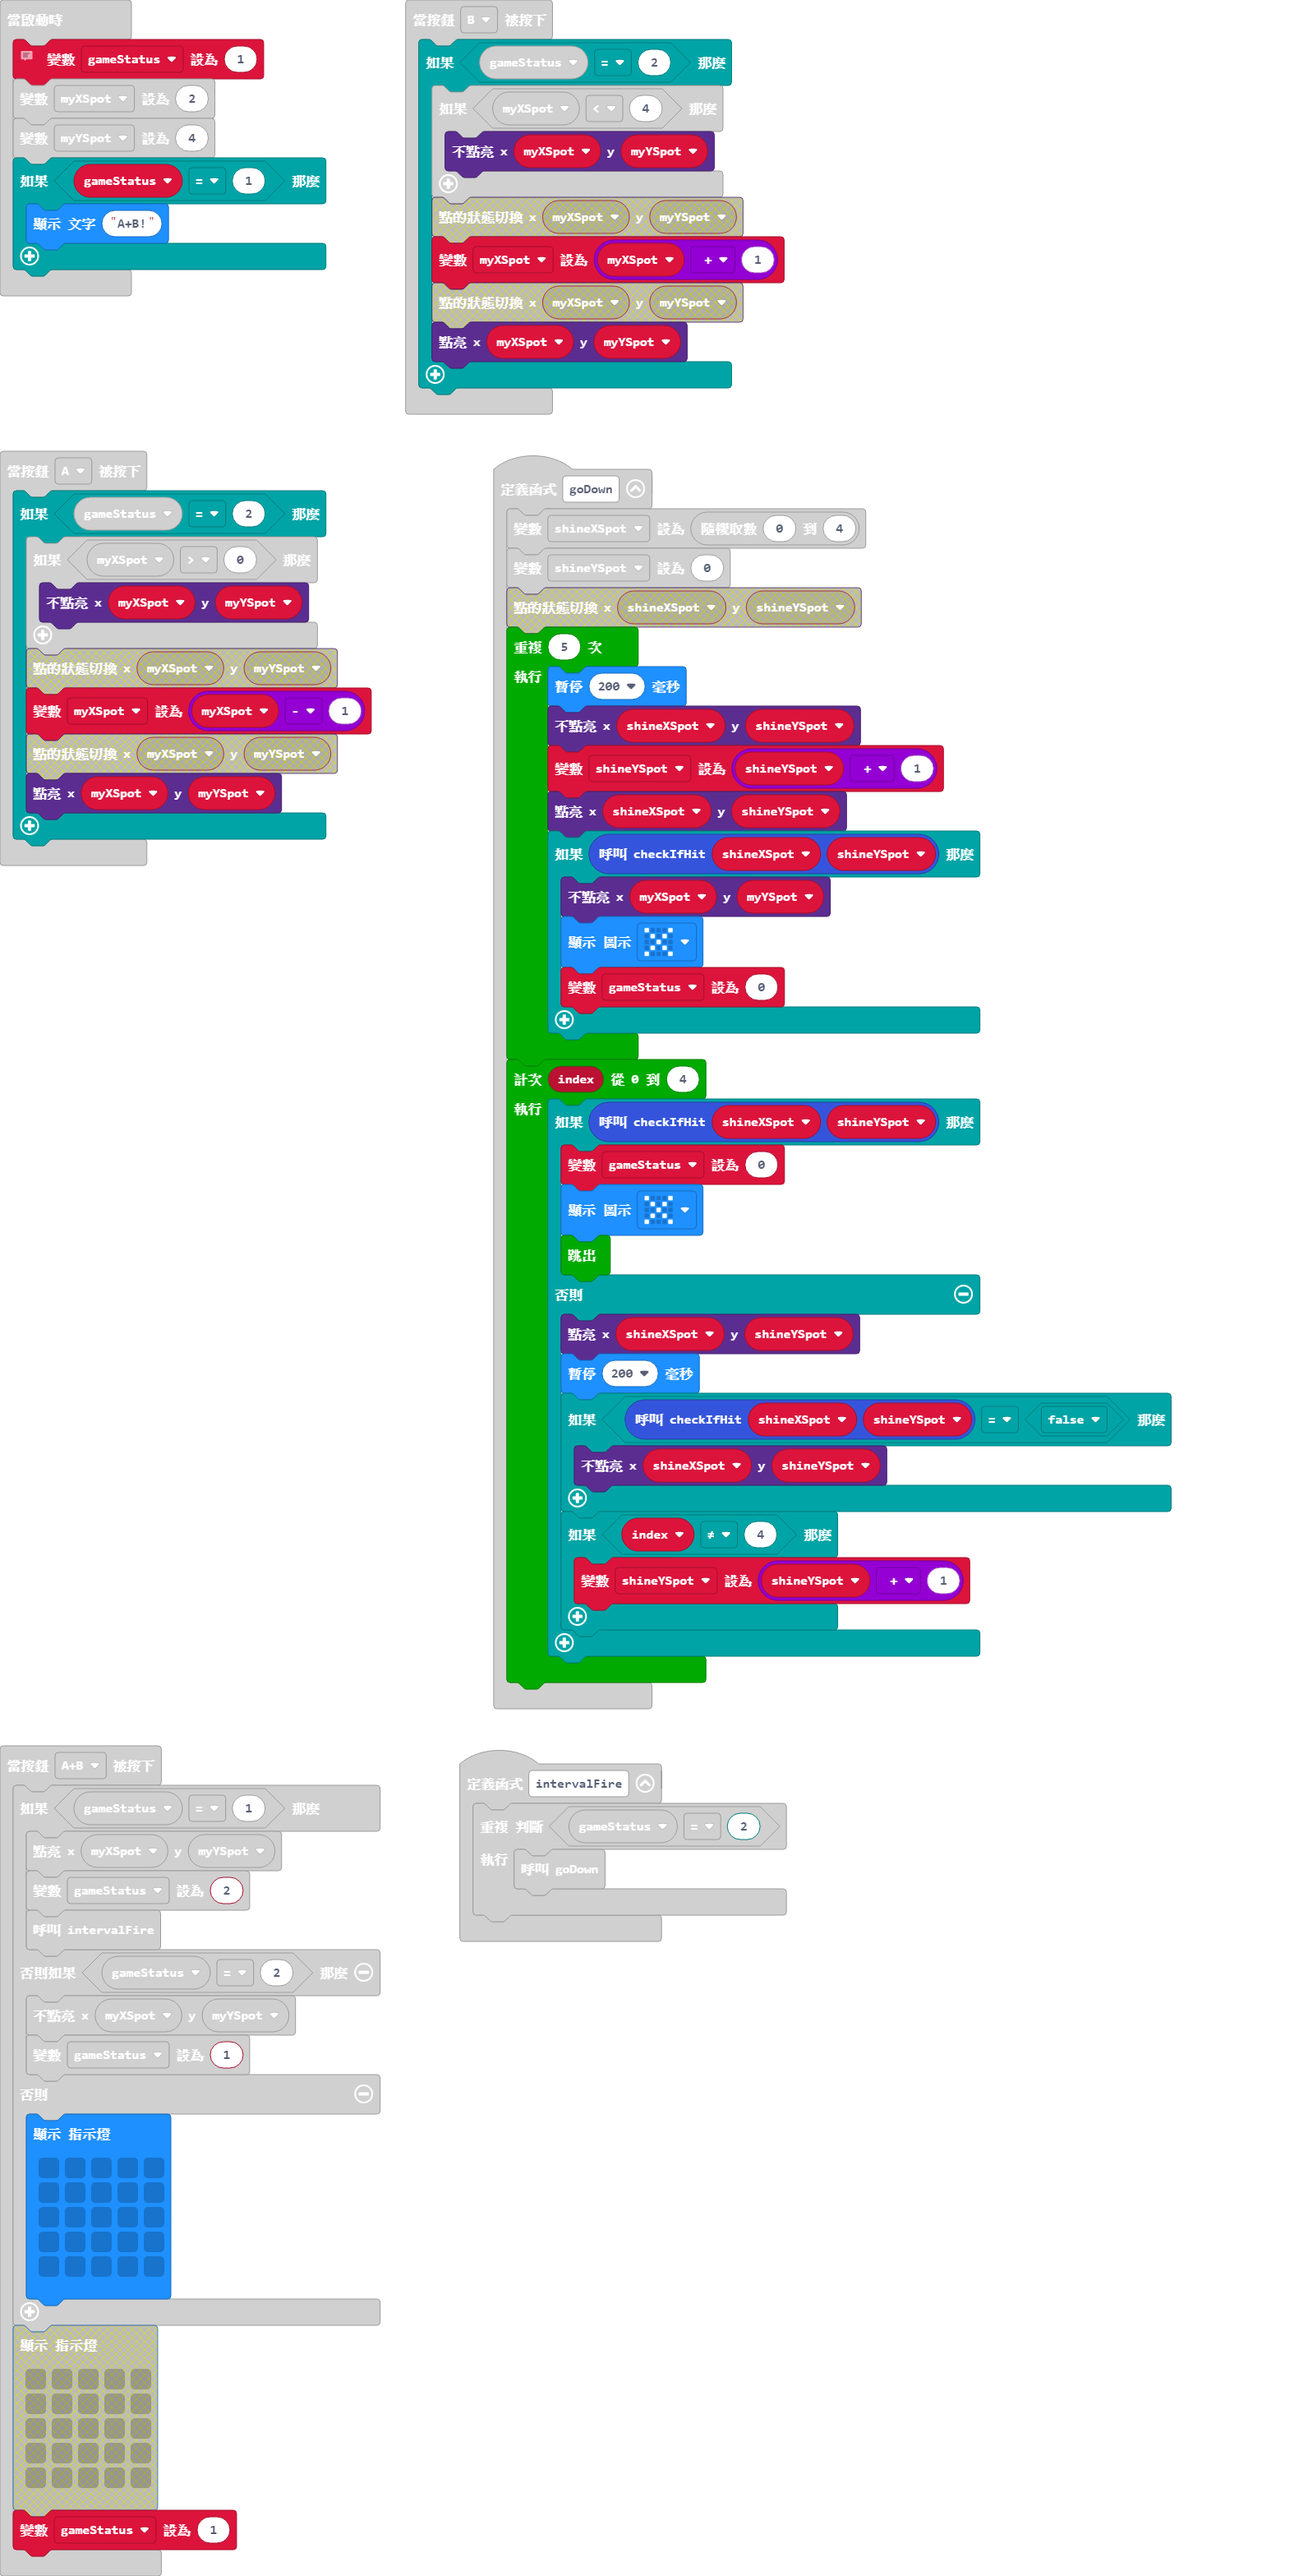
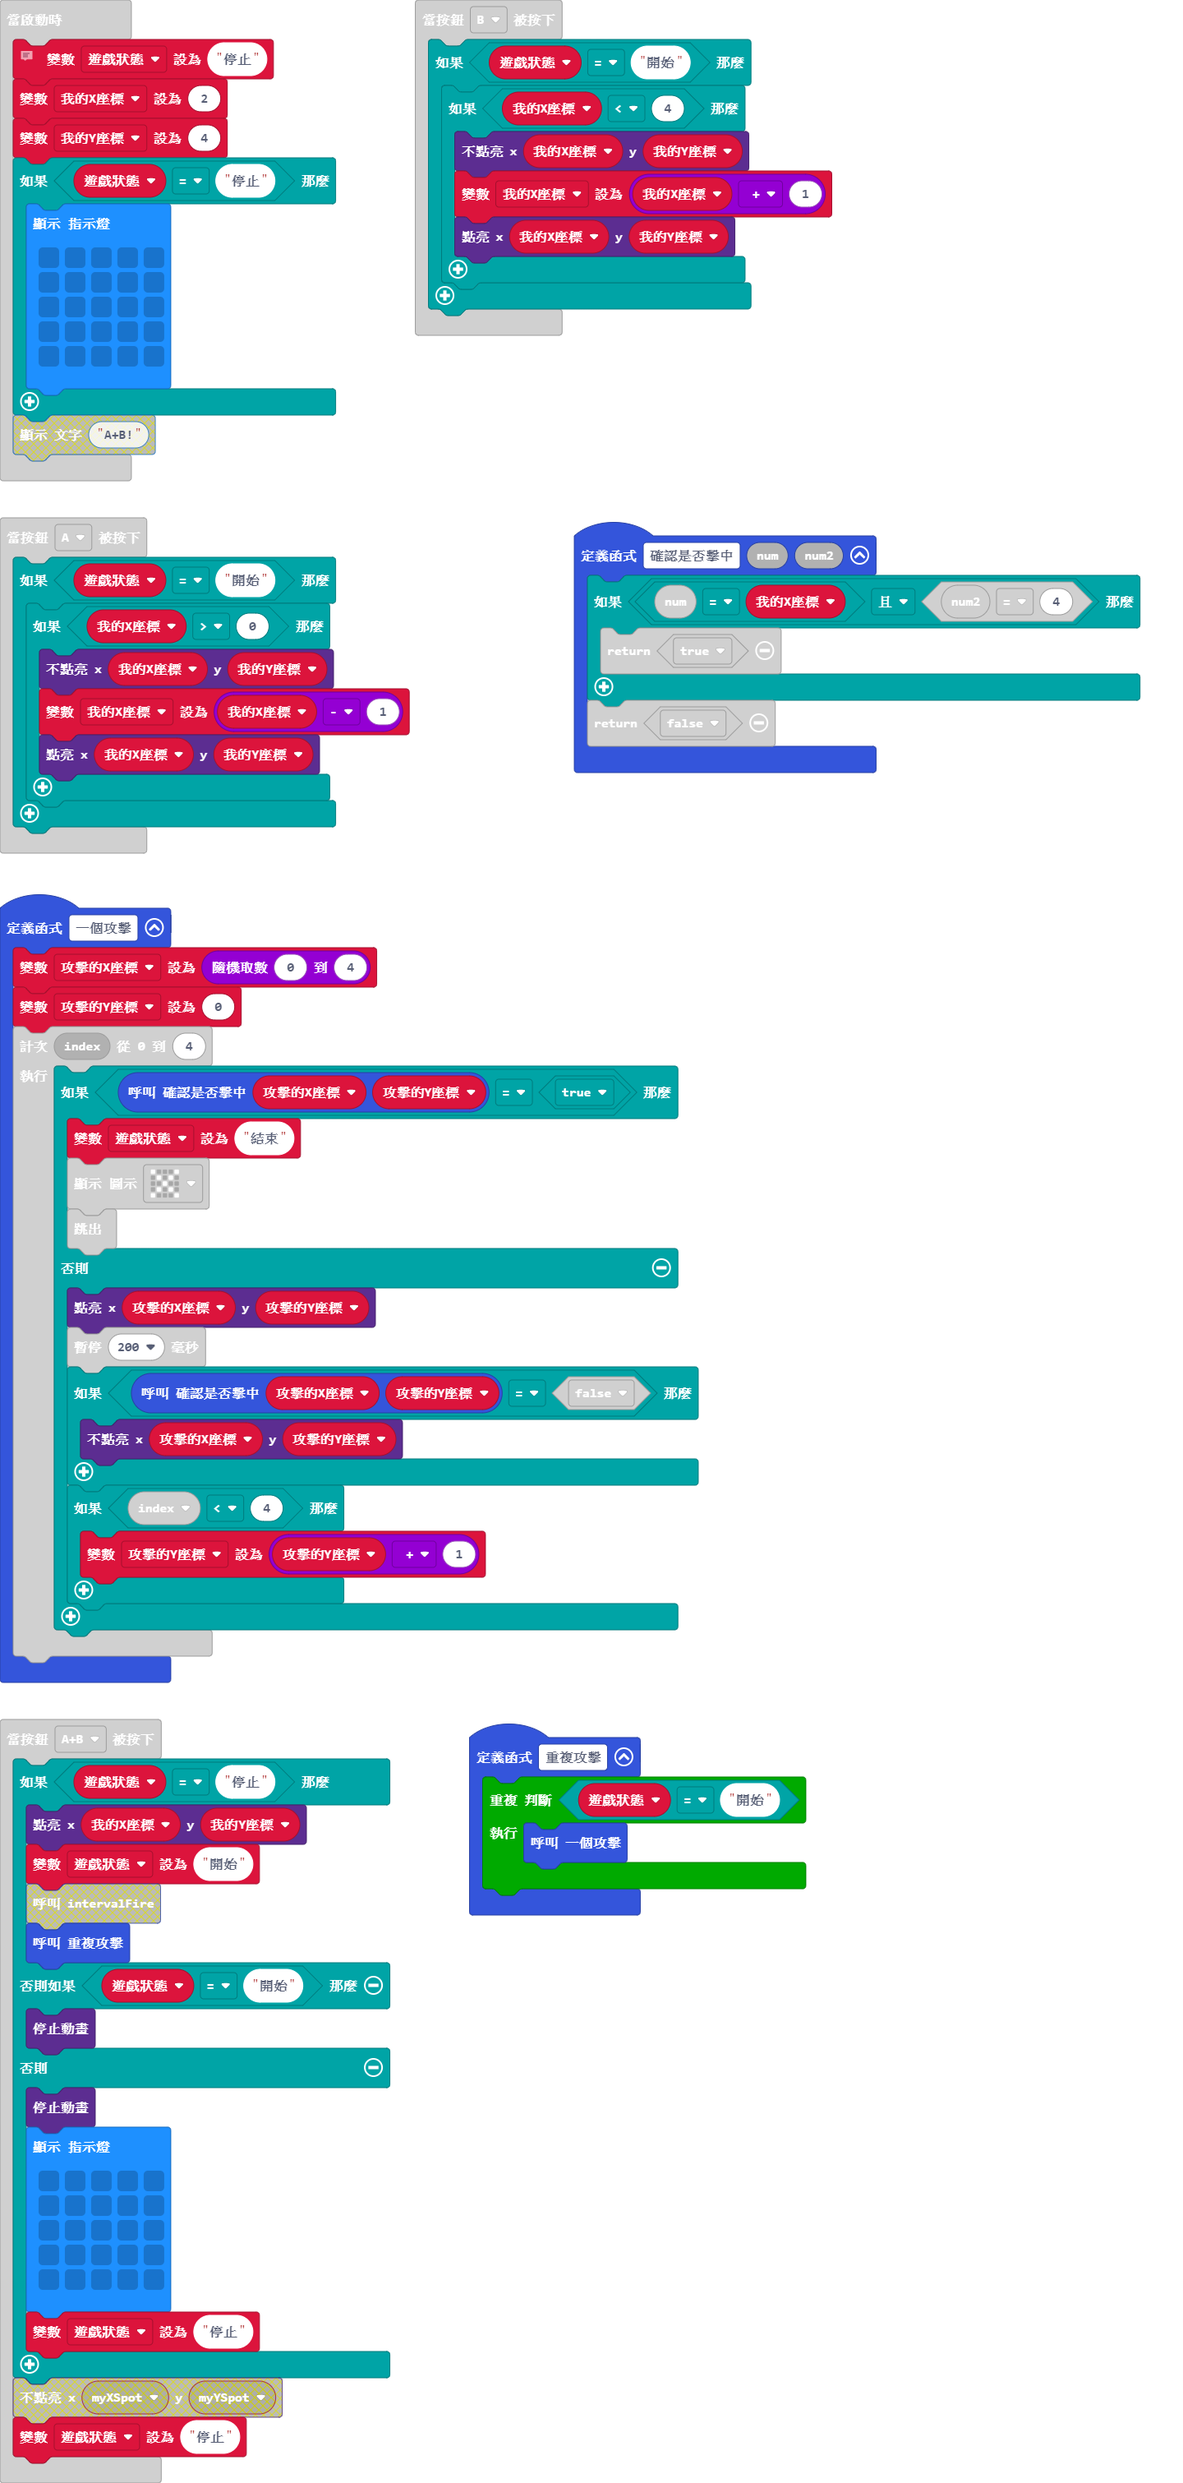
變數改成中文

diff --git a/main.ts b/main.ts
@@ -1,32 +1,53 @@
 input.onButtonPressed(Button.A, function () {
-    if (gameStatus == 2) {
-        if (myXSpot > 0) {
-            led.unplot(myXSpot, myYSpot)
-            myXSpot = myXSpot - 1
-            led.plot(myXSpot, myYSpot)
+    if (遊戲狀態 == "開始") {
+        if (我的X座標 > 0) {
+            led.unplot(我的X座標, 我的Y座標)
+            我的X座標 = 我的X座標 - 1
+            led.plot(我的X座標, 我的Y座標)
         }
     }
 })
-function intervalFire () {
-    while (gameStatus == 2) {
-        goDown()
+function 一個攻擊 () {
+    攻擊的X座標 = randint(0, 4)
+    攻擊的Y座標 = 0
+    for (let index = 0; index <= 4; index++) {
+        if (確認是否擊中(攻擊的X座標, 攻擊的Y座標) == true) {
+            遊戲狀態 = "結束"
+            basic.showIcon(IconNames.No)
+            break;
+        } else {
+            led.plot(攻擊的X座標, 攻擊的Y座標)
+            basic.pause(200)
+            if (確認是否擊中(攻擊的X座標, 攻擊的Y座標) == false) {
+                led.unplot(攻擊的X座標, 攻擊的Y座標)
+            }
+            if (index < 4) {
+                攻擊的Y座標 = 攻擊的Y座標 + 1
+            }
+        }
     }
 }
-function checkIfHit (num: number, num2: number) {
-    if (num == myXSpot && num2 == 4) {
+function 確認是否擊中 (num: number, num2: number) {
+    if (num == 我的X座標 && num2 == 4) {
         return true
     }
     return false
 }
+function 重複攻擊 () {
+    while (遊戲狀態 == "開始") {
+        一個攻擊()
+    }
+}
 input.onButtonPressed(Button.AB, function () {
-    if (gameStatus == 1) {
-        led.plot(myXSpot, myYSpot)
-        gameStatus = 2
-        intervalFire()
-    } else if (gameStatus == 2) {
-        led.unplot(myXSpot, myYSpot)
-        gameStatus = 1
+    if (遊戲狀態 == "停止") {
+        led.plot(我的X座標, 我的Y座標)
+        遊戲狀態 = "開始"
+        重複攻擊()
+    } else if (遊戲狀態 == "開始") {
+        led.stopAnimation()
+        遊戲狀態 = "停止"
     } else {
+        led.stopAnimation()
         basic.showLeds(`
             . . . . .
             . . . . .
@@ -34,47 +55,33 @@ input.onButtonPressed(Button.AB, function () {
             . . . . .
             . . . . .
             `)
-        gameStatus = 1
+        遊戲狀態 = "停止"
     }
 })
 input.onButtonPressed(Button.B, function () {
-    if (gameStatus == 2) {
-        if (myXSpot < 4) {
-            led.unplot(myXSpot, myYSpot)
-            myXSpot = myXSpot + 1
-            led.plot(myXSpot, myYSpot)
+    if (遊戲狀態 == "開始") {
+        if (我的X座標 < 4) {
+            led.unplot(我的X座標, 我的Y座標)
+            我的X座標 = 我的X座標 + 1
+            led.plot(我的X座標, 我的Y座標)
         }
     }
 })
-function goDown () {
-    shineXSpot = randint(0, 4)
-    shineYSpot = 0
-    for (let index = 0; index <= 4; index++) {
-        if (checkIfHit(shineXSpot, shineYSpot)) {
-            gameStatus = 0
-            basic.showIcon(IconNames.No)
-            break;
-        } else {
-            led.plot(shineXSpot, shineYSpot)
-            basic.pause(200)
-            if (checkIfHit(shineXSpot, shineYSpot) == false) {
-                led.unplot(shineXSpot, shineYSpot)
-            }
-            if (index != 4) {
-                shineYSpot = shineYSpot + 1
-            }
-        }
-    }
-}
-let shineYSpot = 0
-let shineXSpot = 0
-let myYSpot = 0
-let myXSpot = 0
-let gameStatus = 0
+let 攻擊的Y座標 = 0
+let 攻擊的X座標 = 0
+let 我的Y座標 = 0
+let 我的X座標 = 0
+let 遊戲狀態 = ""
 // 0:over, 1:stop, 2:start
-gameStatus = 1
-myXSpot = 2
-myYSpot = 4
-if (gameStatus == 1) {
-    basic.showString("A+B!")
+遊戲狀態 = "停止"
+我的X座標 = 2
+我的Y座標 = 4
+if (遊戲狀態 == "停止") {
+    basic.showLeds(`
+        . . . . .
+        . . . . .
+        . . . . .
+        . . . . .
+        . . . . .
+        `)
 }
